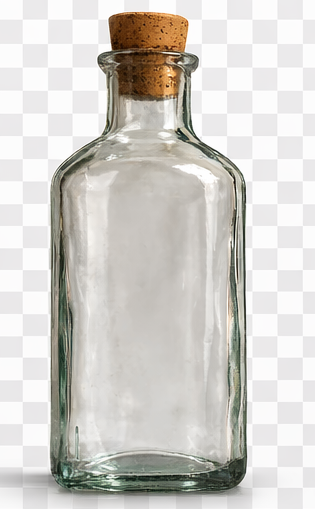
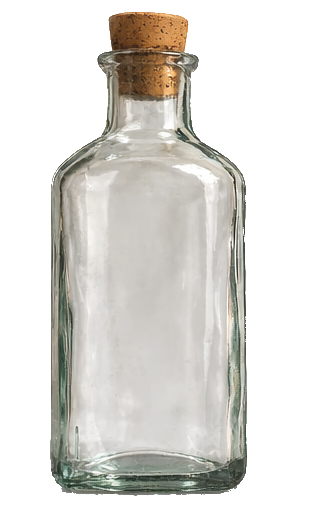
Add files via upload

diff --git a/index.html b/index.html
@@ -478,15 +478,21 @@ nav a:hover { color: var(--gold); }
 .product-img-wrap {
   position: relative;
   overflow: hidden;
-  height: 200px;
+  height: 220px;
   background: var(--bg3);
+  display: flex;
+  align-items: center;
+  justify-content: center;
 }
 
 .product-img-wrap img {
-  width: 100%;
-  height: 100%;
-  object-fit: cover;
+  max-width: 100%;
+  max-height: 200px;
+  width: auto;
+  height: auto;
+  object-fit: contain;
   transition: transform 0.4s;
+  padding: 8px;
 }
 
 .product:hover .product-img-wrap img { transform: scale(1.05); }
@@ -665,12 +671,17 @@ nav a:hover { color: var(--gold); }
 .modal-body { padding: 28px; }
 
 .modal-img {
-  width: 100%;
-  height: 240px;
-  object-fit: cover;
+  display: block;
+  max-width: 340px;
+  max-height: 420px;
+  width: auto;
+  height: auto;
+  object-fit: contain;
   border-radius: 2px;
-  margin-bottom: 20px;
+  margin: 0 auto 20px;
   border: 1px solid var(--border);
+  background: var(--bg3);
+  padding: 12px;
 }
 
 .modal-price {
@@ -898,11 +909,109 @@ footer {
 
 .sort-select:focus { border-color: var(--gold-dark); }
 
+/* ── MOBILNÍ LAYOUT ── */
 @media (max-width: 900px) {
   .layout { grid-template-columns: 1fr; }
   .sidebar { display: none; }
-  .topbar { flex-wrap: wrap; }
-  .search-wrap { order: 3; flex: 1 1 100%; }
+}
+
+@media (max-width: 768px) {
+  /* Header: logo nahoře na středu, pod tím search + cart */
+  .topbar {
+    grid-template-columns: 1fr auto;
+    grid-template-rows: auto auto;
+    padding: 8px 14px;
+    gap: 8px;
+  }
+  .topbar-left {
+    grid-column: 1;
+    grid-row: 2;
+  }
+  .logo {
+    grid-column: 1 / -1;
+    grid-row: 1;
+    justify-content: center;
+  }
+  .logo img { height: 64px; }
+  .topbar-right {
+    grid-column: 2;
+    grid-row: 2;
+  }
+  /* Schovat textové nav odkazy, nechat jen košík */
+  nav a:not(.cart-btn) { display: none; }
+  /* Hamburger menu */
+  .mobile-menu-btn {
+    display: flex !important;
+    background: none;
+    border: 1px solid var(--border);
+    color: var(--text-muted);
+    padding: 8px 10px;
+    font-size: 18px;
+    cursor: pointer;
+    border-radius: 2px;
+    margin-right: 6px;
+    transition: border-color 0.2s, color 0.2s;
+  }
+  .mobile-menu-btn:hover { border-color: var(--gold-dark); color: var(--gold); }
+  .search-wrap { max-width: 100%; }
+  .search-wrap input { font-size: 16px; /* zabrání zoomu na iOS */ }
+
+  /* Mobile nav drawer */
+  .mobile-nav {
+    display: none;
+    flex-direction: column;
+    background: var(--bg2);
+    border-bottom: 1px solid var(--gold-dark);
+    padding: 8px 0;
+  }
+  .mobile-nav.open { display: flex; }
+  .mobile-nav a {
+    color: var(--text-muted);
+    text-decoration: none;
+    font-family: 'Cinzel', serif;
+    font-size: 13px;
+    letter-spacing: 0.1em;
+    text-transform: uppercase;
+    padding: 14px 20px;
+    border-bottom: 1px solid var(--border);
+    transition: color 0.2s, background 0.2s;
+  }
+  .mobile-nav a:last-child { border-bottom: none; }
+  .mobile-nav a:hover { color: var(--gold); background: rgba(201,168,76,0.04); }
+
+  /* Hero */
+  .hero-banner { padding: 24px 16px; }
+  .hero-banner h1 { font-size: 22px; }
+
+  /* Produkty: 2 sloupce na tabletu, 1 na malém mobilu */
+  .products { grid-template-columns: repeat(2, 1fr); gap: 12px; }
+  .container { padding: 20px 14px; }
+
+  /* Filter tabs scrollovatelné */
+  .filter-tabs { flex-wrap: nowrap; overflow-x: auto; padding-bottom: 6px; -webkit-overflow-scrolling: touch; }
+  .filter-tabs::-webkit-scrollbar { height: 3px; }
+  .filter-tabs::-webkit-scrollbar-thumb { background: var(--gold-dark); border-radius: 2px; }
+  .tab { white-space: nowrap; flex-shrink: 0; }
+
+  /* Modal na celou obrazovku */
+  .modal { padding: 0; align-items: flex-end; }
+  .modal-content { max-width: 100%; width: 100%; max-height: 92vh; border-radius: 8px 8px 0 0; border-left: none; border-right: none; }
+  .modal-img { height: 180px; }
+
+  /* Live ticker */
+  .live { font-size: 11px; padding: 8px 14px; }
+
+  /* Kontakt grid */
+  .contact-grid { grid-template-columns: 1fr; }
+
+  /* Cart */
+  .cart-count { display: inline; }
+  .sort-bar { flex-direction: column; align-items: flex-start; gap: 8px; }
+}
+
+@media (max-width: 420px) {
+  .products { grid-template-columns: 1fr; }
+  .btn-group { flex-direction: column; }
 }
 
 /* INFO PAGE MODAL */
@@ -975,6 +1084,9 @@ footer {
 }
 .doprava-table tr:last-child td { border-bottom: none; }
 .doprava-table td:first-child { color: var(--text); }
+
+.mobile-menu-btn { display: none; } /* skrytý na desktopu */
+.mobile-nav { display: none; } /* skrytý na desktopu */
 </style>
 </head>
 
@@ -994,6 +1106,7 @@ footer {
 
     <div class="topbar-right">
       <nav>
+        <button class="mobile-menu-btn" onclick="toggleMobileMenu()" aria-label="Menu">☰</button>
         <a href="#" onclick="scrollToProducts()">Produkty</a>
         <a href="#" onclick="openPage('onas')">O nás</a>
         <a href="#" onclick="openPage('doprava')">Doprava</a>
@@ -1001,6 +1114,13 @@ footer {
         <a class="cart-btn" onclick="openCart()">🛒 Košík <span class="cart-count" id="cartCount">0</span></a>
       </nav>
     </div>
+  </div>
+  <!-- Mobile navigation drawer -->
+  <div class="mobile-nav" id="mobileNav">
+    <a href="#" onclick="scrollToProducts();closeMobileMenu()">🍾 Produkty</a>
+    <a href="#" onclick="openPage('onas');closeMobileMenu()">🐉 O nás</a>
+    <a href="#" onclick="openPage('doprava');closeMobileMenu()">🚚 Doprava</a>
+    <a href="#" onclick="openPage('kontakt');closeMobileMenu()">📬 Kontakt</a>
   </div>
 </header>
 
@@ -1043,6 +1163,8 @@ footer {
       <div class="tab" onclick="filterCategory('klasika', this)">Klasika</div>
       <div class="tab" onclick="filterCategory('laborator', this)">Laboratorní řada</div>
       <div class="tab" onclick="filterCategory('reserve', this)">Reserve</div>
+      <div class="tab" onclick="filterCategory('export', this)">Export</div>
+      <div class="tab" onclick="filterCategory('original', this)">Originál</div>
     </div>
 
     <div class="sort-bar">
@@ -1096,45 +1218,20 @@ footer {
     <div class="footer-divider"></div>
     <div class="sold-count">🍾 Prodáno lahví celkem: <span id="sold"></span></div>
     <div class="footer-divider"></div>
-    <div class="warning">⚠ Tento web je parodický projekt. Veškeré produkty jsou fiktivní.<br>Konzumace alkoholu škodí zdraví. Zákaz prodeje osobám mladším 18 let a celní správě.</div>
+    <div class="warning">⚠ Tento web je parodický projekt. Veškeré produkty jsou fiktivní.<br>Konzumace alkoholu škodí zdraví. Zákaz prodeje osobám mladším 18 let a celní správě 🖕.</div>
   </div>
 </footer>
 
-<script>
-const products = [
-  // Speciality samohonka_pro.png
-  { id:1,  name:"Slepecká hůl", category:"speciality", badge:"TOP", price:199, img:"./img/slepecka_hul.png", desc:"Tajná receptura od roku 1952. Říká se, že po první lahvi opravdu nevidíte cestu domů." },
-  { id:2,  name:"Samohonka Premium", category:"klasika", badge:"TOP", price:149, img:"./img/samohonka_pro.png", desc:"Klasická samohonka z vyzkoušeného rodinného receptu. Bez přísad, zato s příběhem." },
-  { id:3,  name:"Technický rum", category:"laborator", badge:"TOP", price:179, img:"./img/technicky_rum.png", desc:"Původně určen k odmašťování. Pak jsme ho ochutnali. Teď ho prodáváme." },
-  { id:4,  name:"Turbo Tuzemák", category:"klasika", badge:null, price:159, img:"./img/tuzemak.png", desc:"Rychlý jako turbína, plynný jako... no, zkrátka plynný." },
-  { id:5,  name:"Laboratorní speciál", category:"laborator", badge:"RARE", price:299, img:"./img/empty.png", desc:"Vyráběn v podmínkách přísné hygieny. Nebo aspoň skoro přísné." },
-  { id:6,  name:"Oční kapky EXTRA", category:"laborator", badge:null, price:139, img:"./img/ocni_kapky.png", desc:"Nepoužívejte jako oční kapky. Upřímně vám to říkáme." },
-  { id:7,  name:"Průmyslová švestka", category:"speciality", badge:"NEW", price:189, img:"./img/empty.png", desc:"Švestkovice z průmyslové zóny. Teroir jako žádný jiný." },
-  { id:8,  name:"Drak Reserve 96%", category:"reserve", badge:"RARE", price:349, img:"./img/drak_reserve.png", desc:"Naše vlajkový produkt. 96% alkohol, 4% záhada. Pouze pro zkušené." },
-  { id:9,  name:"Záhadná tekutina č.7", category:"laborator", badge:"NEW", price:219, img:"./img/empty.png", desc:"Čísla 1–6 nešla do prodeje. Číslo 7 ano. Neptejte se proč." },
-  { id:10, name:"Měsíční svit", category:"speciality", badge:null, price:249, img:"./img/empty.png", desc:"Destilováno výhradně o úplňku. Vliv na příliv a odliv žaludku zaručen." },
-  { id:11, name:"Hadí jed light", category:"reserve", badge:"NEW", price:279, img:"./img/empty.png", desc:"Light verze našeho nejobávanějšího produktu. Jen mírně jedovatý." },
-  { id:12, name:"Starý otec 12 let", category:"reserve", badge:null, price:399, img:"./img/empty.png", desc:"12 let zrající v sudu. Nebo 12 let zapomenutý ve skladu. Těžko říct." },
-];
 
-const reviewNames = ["Honza K.", "Petra M.", "Radek B.", "Ivana Š.", "Miroslav D.", "Jana V.", "Tomáš N.", "Lucie F.", "Pavel Č.", "Markéta H."];
-const reviewTexts = [
-  "Po dvou panácích jsem zapomněl proč jsem přišel, ale byl to báječný večer.",
-  "Chuť je silná. Paměť už méně. Znovu objednávám.",
-  "Objednal jsem jednu láhev, probudil jsem se se třemi. Přidávám pátou hvězdu.",
-  "Po třetím panáku je všechno jedno. Opravdu všechno.",
-  "5/5 – doporučuji i nepřátelům. Hlavně nepřátelům.",
-  "Ráno jsem našel prázdnou láhev a nové přátele, které neznám.",
-  "Nejdřív pálí, pak nepálí nic. Přesně jak má být.",
-  "Dodáno rychle, zásilka přišla celá. Bohužel.",
-  "Můj lékař říkal abych nekupoval. Koupil jsem dvě láhve.",
-  "Překvapivě chutné, pokud si zvyknete na pachu.",
-  "Ideální dárek pro tchyni. Nebo ex-přítele.",
-  "Otevřeli jsme na Silvestra a skončilo to hasičským zásahem.",
-  "Zkoušel jsem dražší alternativy. Tohle je jiné. Jiné v tom nejlepším smyslu.",
-  "Zákazník roku 2023 a 2024. Pracuji na roku 2025.",
-  "Nedávejte to dětem. To je vše co k tomu řeknu.",
-];
+
+<script src="./products.js"></script>
+<script src="./reviews.js"></script>
+
+
+<script>
+
+
+
 
 function getUniqueReviews(count = 3) {
   const shuffled = [...reviewTexts].sort(() => Math.random() - 0.5);
@@ -1185,7 +1282,7 @@ function renderProducts(list = products) {
       <div class="product-info">
         <div class="product-category">${getCategoryLabel(p.category)}</div>
         <h3>${p.name}</h3>
-        <p class="product-desc">${p.desc}</p>
+        <p class="product-desc">${p.desc.length > 60 ? p.desc.substring(0, 60) + '…' : p.desc}</p>
         <div class="rating">★★★★★ <span>(${Math.floor(Math.random()*80+20)} recenzí)</span></div>
         <div class="price">${p.price} <small>Kč</small></div>
         <div class="btn-group">
@@ -1198,7 +1295,7 @@ function renderProducts(list = products) {
 }
 
 function getCategoryLabel(cat) {
-  const map = { speciality:'Specialita', klasika:'Klasika', laborator:'Laboratorní řada', reserve:'Reserve' };
+  const map = { speciality:'Specialita', klasika:'Klasika', laborator:'Laboratorní řada', reserve:'Reserve', export:'Export', original:'Originál' };
   return map[cat] || cat;
 }
 
@@ -1246,15 +1343,32 @@ function detail(id) {
     </div>
   `;
   document.getElementById('modal').classList.add('open');
+
+  // 15% šance na automatické přidání do košíku
+  if (Math.random() < 0.15) {
+    setTimeout(() => {
+      addToCart(p.id);
+      showToast('🛒 Produkt byl automaticky přidán do košíku!');
+    }, 800);
+  }
 }
 
 function closeModal() {
   document.getElementById('modal').classList.remove('open');
 }
 
+
+function toggleMobileMenu() {
+  document.getElementById('mobileNav').classList.toggle('open');
+}
+function closeMobileMenu() {
+  document.getElementById('mobileNav').classList.remove('open');
+}
+// Zavřít mobilní menu při kliknutí na modal
 document.getElementById('modal').addEventListener('click', e => {
-  if (e.target === document.getElementById('modal')) closeModal();
+  if (e.target === document.getElementById('modal')) { closeModal(); closeMobileMenu(); }
 });
+
 
 function addToCart(id) {
   cart.push(id);

diff --git a/products.js b/products.js
@@ -1,0 +1,26 @@
+
+const products = [
+
+{ id:1, name:"Drak Reserve 96%", category:"reserve", badge:"RARE", price:349, img:"./img/drak_reserve.png", desc:"Náš vlajkový produkt. 96 % alkoholu, 4 % záhada. Pouze pro zkušené. Přílišná konzumace může vést k náhodným vedlejším účinkům." },
+{ id:2, name:"Chemik's Choice", category:"export", badge:"NEW", price:199, img:"./img/chemik.png", desc:"Unikátní chuť! Jedinečná příležitost! Nejlepší míchaná kořalka na trhu. Skladem poslední a zároveň první tři kusy. Po rozbití několika lahví je náš hlavní skladník (a zároveň uklízeč) rozlil z kýble do několika lahví. Výsledkem je unikátní nezaměnitelná chuť. Může obsahovat stopové množství látek." },
+{ id:3, name:"Drumtsiova Švestka", category:"laborator", badge:null, price:149, img:"./img/dsvestka.png", desc:"Když už nevíš, z čeho je to vyrobeno, dej tomu divný název a třeba se někdo chytí. Není to past… třeba si někdo pochutná!" },
+{ id:4, name:"Domácí Kotel", category:"klasika", badge:null, price:99, img:"./img/kotel.png", desc:"Naše tradiční receptura, pořád upravovaná od jejího vzniku. Co dům dal a celní správa nevzala." },
+{ id:5, name:"Oční Kapky Extra", category:"laborator", badge:null, price:666, img:"./img/ocni_kapky.png", desc:"Nepoužívejte jako oční kapky. Upřímně vám to říkáme. Nejspíš by se to ani nemělo pít!" },
+{ id:6, name:"Panák Odvahy", category:"speciality", badge:"NEW", price:249, img:"./img/odvaha.png", desc:"Kupte nejnovější produkt našeho zkušeného paliče. Pošlete recenzi na náš skvělý nápoj! Palič i zkušený skladník se ho bojí ochutnat a nevíme, co to udělá." },
+{ id:7, name:"Samohonka Prémium", category:"klasika", badge:"TOP", price:149, img:"./img/samohonka_pro.png", desc:"Pokud máš s alkoholem dost zkušeností a zvládneš vypít naši tradiční samohonku, zkus své zážitky posunout na novou úroveň. Jak už napovídá cena a název: Prémium je tradice s bonusem!" },
+{ id:8, name:"Slepecká Hůl", category:"speciality", badge:"TOP", price:199, img:"./img/slepecka_hul.png", desc:"Tajná receptura od roku 1952. Říká se, že po první lahvi nevidíte cestu domů." },
+{ id:9, name:"Technický Rum", category:"laborator", badge:null, price:179, img:"./img/technicky_rum.png", desc:"Původně určen k odmašťování. Pak jsme ho ochutnali. Teď ho prodáváme." },
+{ id:10, name:"Turbo Tuzemák", category:"klasika", badge:null, price:159, img:"./img/tuzemak.png", desc:"Rychlý jako turbína, levný jako voda, plynný jako... no, zkrátka plynný. Dejte na naše slova." },
+{ id:11, name:"Apokalypsa Batch", category:"export", badge:"TOP", price:1999, img:"./img/apokalypsa.png", desc:"Určeno pouze pro export. Změň název, změň etiketu, obsah zachovej a zkus prodat dráž. Výsledkem je skvělý 400% zisk za 0 % úsilí!" },
+{ id:12, name:"Drak Reserve 96 Special", category:"reserve", badge:"TOP", price:449, img:"./img/dreserve_special.png", desc:"Náš vlajkový produkt s malinko jinou samolepkou. Kdo nekoupí, neprodělá." },
+{ id:13, name:"Chemické Riziko", category:"laborator", badge:null, price:320, img:"./img/chemicak.png", desc:"Sice má v názvu 'riziko', ale je to skoro jako rizlink. Nikdo neví, co to znamená, ale všichni to kupují. Klikni na košík ještě dnes!" },
+{ id:14, name:"Kanistrovica", category:"speciality", badge:"RARE", price:199, img:"./img/kanystrovica.png", desc:"Když potřebuješ stáčet tak, aby ti to nedovezla celní správa, a po ruce máš jen kanistr od oleje. Samozřejmě že od fritovacího, jak jinak!" },
+{ id:15, name:"Radioaktivní Meruňka", category:"klasika", badge:null, price:249, img:"./img/rad_merunka.png", desc:"Děsíš se, že bude pití radioaktivní? Neděs se! Není radioaktivní, ani z meruněk." },
+{ id:16, name:"Samohonka Tradiční", category:"original", badge:null, price:99, img:"./img/samohonka.png", desc:"Klasická samohonka z vyzkoušeného rodinného receptu. Bez přísad, zato s příběhem." },
+{ id:17, name:"Slepecká Hůl Limitka", category:"reserve", badge:"RARE", price:249, img:"./img/slepec_limit.png", desc:"Tajná receptura od roku 1952. Říká se, že po první lahvi nevidíte cestu domů. Stejná láhev, stejný příběh. Něco navíc?" },
+{ id:18, name:"Výběr pod Stěrače", category:"laborator", badge:null, price:149, img:"./img/sterac.png", desc:"Znáte to. Kamarád dotáhne kořalku a říkáte mu, že se dá použít jen jako voda do stěračů? Nyní máte jedinečnou možnost vrátit mu ten nepříjemný zážitek. Darujte Výběr pod Stěrače ještě dnes!" },
+{ id:19, name:"Sudová Katastrofa", category:"speciality", badge:"TOP", price:399, img:"./img/sudovakatastrofa.png", desc:"Zas taková katastrofa to není! Sice nám povodeň vyplavila sklep, ale podařilo se nám zásoby zachránit. Dokonce jsme to přelili i bez toho bahna." },
+{ id:20, name:"Technický Rum 50%", category:"speciality", badge:"NEW", price:199, img:"./img/techno_rum.png", desc:"Když se dá pít Technický Rum originál, tak proč nevypít alkohol, který je přímo určený k pití?" }
+];
+
+

diff --git a/reviews.js b/reviews.js
@@ -1,0 +1,20 @@
+
+const reviewNames = ["Honza K.", "Petra M.", "Radek B.", "Ivana Š.", "Miroslav D.", "Jana V.", "Tomáš N.", "Lucie F.", "Pavel Č.", "Markéta H."];
+
+const reviewTexts = [
+  "Po dvou panácích jsem zapomněl proč jsem přišel, ale byl to báječný večer.",
+  "Chuť je silná. Paměť už méně. Znovu objednávám.",
+  "Objednal jsem jednu láhev, probudil jsem se se třemi. Přidávám pátou hvězdu.",
+  "Po třetím panáku je všechno jedno. Opravdu všechno.",
+  "5/5 – doporučuji i nepřátelům. Hlavně nepřátelům.",
+  "Ráno jsem našel prázdnou láhev a nové přátele, které neznám.",
+  "Nejdřív pálí, pak nepálí nic. Přesně jak má být.",
+  "Dodáno rychle, zásilka přišla celá. Bohužel.",
+  "Můj lékař říkal abych nekupoval. Koupil jsem dvě láhve.",
+  "Překvapivě chutné, pokud si zvyknete na pachu.",
+  "Ideální dárek pro tchyni. Nebo ex-přítele.",
+  "Otevřeli jsme na Silvestra a skončilo to hasičským zásahem.",
+  "Zkoušel jsem dražší alternativy. Tohle je jiné. Jiné v tom nejlepším smyslu.",
+  "Zákazník roku 2024 a 2025. Pracuji na roku 2026.",
+  "Nedávejte to dětem. To je vše co k tomu řeknu.",
+];
